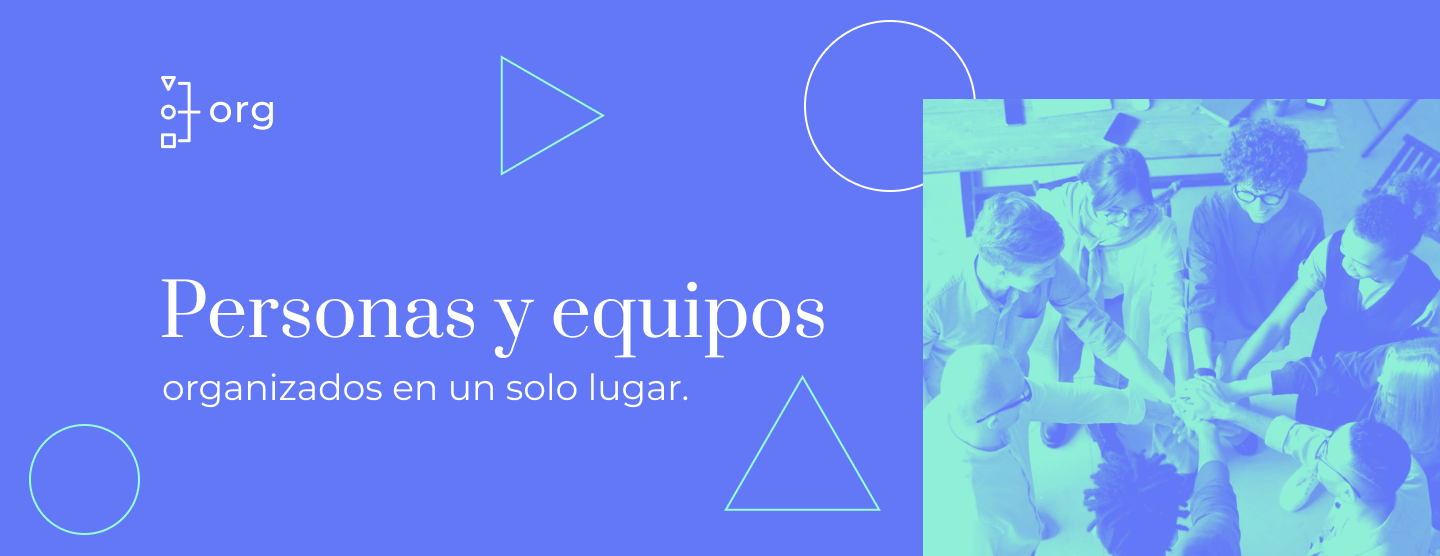
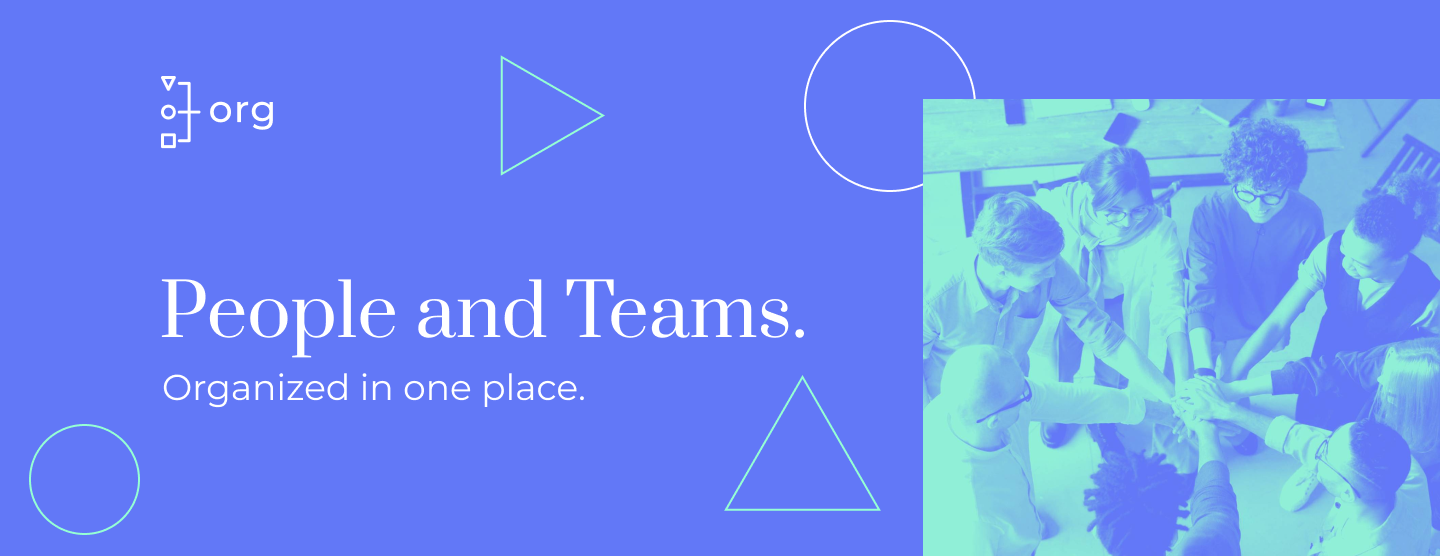
Translating to English
Translating the front end Text to english

Changed region(s): [[0.1562, 0.4892, 0.5938, 0.6421], [0.0938, 0.6727, 0.4688, 0.7338]]

diff --git a/src/App.js b/src/App.js
@@ -14,55 +14,55 @@ function App() {
 	const [colaboradores, actualizarColaboradores] = useState([
 		{
 			id: uuid(),
-			nombre: "Juan",
-			puesto: "Estudiante",
+			nombre: "JuanF Madrid",
+			puesto: "Full Stack Developer",
 			foto: "https://github.com/jfmadridc.png",
-			equipo: "Programación",
+			equipo: "Programing",
 			fav: true,
 		},
 		{
 			id: uuid(),
-			nombre: "Juan",
+			nombre: "JuanF Madrid",
 			puesto: "voluptate adipisicing consequat magna incididunt do ad excepteur nisi aute eu minim do Lorem   ",
 			foto: "https://github.com/jfmadridc.png",
-			equipo: "Programación",
+			equipo: "Programing",
 			fav: false,
 		},
 		{
 			id: uuid(),
-			nombre: "Juan",
-			puesto: "Estudiante",
+			nombre: "JuanF Madrid",
+			puesto: "Full Stack Developer",
 			foto: "https://github.com/jfmadridc.png",
-			equipo: "Programación",
+			equipo: "Programing",
 			fav: false,
 		},
 		{
 			id: uuid(),
-			nombre: "Juan",
-			puesto: "Estudiante",
+			nombre: "JuanF Madrid",
+			puesto: "Full Stack Developer",
 			foto: "https://github.com/jfmadridc.png",
-			equipo: "Programación",
+			equipo: "Programing",
 			fav: false,
 		},
 		{
 			id: uuid(),
-			nombre: "Juan",
-			puesto: "Estudiante",
+			nombre: "JuanF Madrid",
+			puesto: "Full Stack Developer",
 			foto: "https://github.com/jfmadridc.png",
-			equipo: "Programación",
+			equipo: "Programing",
 			fav: false,
 		},
 		{
 			id: uuid(),
 			nombre: "Christian",
-			puesto: "Dueño",
+			puesto: "Owner",
 			foto: "https://github.com/christianpva.png",
 			equipo: "Data Science",
 		},
 		{
 			id: uuid(),
 			nombre: "Christian",
-			puesto: "Dueño",
+			puesto: "Owner",
 			foto: "https://github.com/christianpva.png",
 			equipo: "Data Science",
 			fav: false,
@@ -70,7 +70,7 @@ function App() {
 		{
 			id: uuid(),
 			nombre: "Christian",
-			puesto: "Dueño",
+			puesto: "Owner",
 			foto: "https://github.com/christianpva.png",
 			equipo: "Devops",
 			fav: false,
@@ -78,40 +78,40 @@ function App() {
 		{
 			id: uuid(),
 			nombre: "Christian",
-			puesto: "Dueño",
+			puesto: "Owner",
 			foto: "https://github.com/christianpva.png",
-			equipo: "UX y Diseño",
+			equipo: "UX y Design",
 			fav: false,
 		},
 		{
 			id: uuid(),
 			nombre: "Christian",
-			puesto: "Dueño",
+			puesto: "Owner",
 			foto: "https://github.com/christianpva.png",
-			equipo: "Móvil",
+			equipo: "Mobile",
 			fav: false,
 		},
 		{
 			id: uuid(),
 			nombre: "Christian",
-			puesto: "Dueño",
+			puesto: "Owner",
 			foto: "https://github.com/christianpva.png",
-			equipo: "Innovacion y Gestión",
+			equipo: "Innovation and Management",
 			fav: false,
 		},
 		{
 			id: uuid(),
 			nombre: "Christian ea laborum ex deserunt minim eu consectetur irure",
-			puesto: "Dueño  ",
+			puesto: "Owner  ",
 			foto: "https://github.com/christianpva.png",
-			equipo: "Programación",
+			equipo: "Programing",
 			fav: false,
 		},
 
 		{
 			id: uuid(),
 			nombre: "Tatiana",
-			puesto: "Profesora",
+			puesto: "Teacher",
 			foto: "https://media.licdn.com/dms/image/D4D03AQG2FWMkos_0oA/profile-displayphoto-shrink_200_200/0/1691671216460?e=1700697600&v=beta&t=9uFXPOpL9RrtwZKQjIkO_Lw7j7aTuumwcGccPKO1OLM",
 			equipo: "Front End",
 			fav: false,
@@ -119,7 +119,7 @@ function App() {
 		{
 			id: uuid(),
 			nombre: "Tatiana",
-			puesto: "Profesora",
+			puesto: "Teacher",
 			foto: "https://media.licdn.com/dms/image/D4D03AQG2FWMkos_0oA/profile-displayphoto-shrink_200_200/0/1691671216460?e=1700697600&v=beta&t=9uFXPOpL9RrtwZKQjIkO_Lw7j7aTuumwcGccPKO1OLM",
 			equipo: "Front End",
 			fav: false,
@@ -128,7 +128,7 @@ function App() {
 		{
 			id: uuid(),
 			nombre: "Tatiana",
-			puesto: "Profesora",
+			puesto: "Teacher",
 			foto: "https://media.licdn.com/dms/image/D4D03AQG2FWMkos_0oA/profile-displayphoto-shrink_200_200/0/1691671216460?e=1700697600&v=beta&t=9uFXPOpL9RrtwZKQjIkO_Lw7j7aTuumwcGccPKO1OLM",
 			equipo: "Front End",
 			fav: false,
@@ -137,7 +137,7 @@ function App() {
 	const [equipos, actulizarEquipos] = useState([
 		{
 			id: uuid(),
-			titulo: "Programación",
+			titulo: "Programing",
 			colorFondo: "#D9F7E9",
 			colorDestaques: "#57C278",
 		},
@@ -161,19 +161,19 @@ function App() {
 		},
 		{
 			id: uuid(),
-			titulo: "UX y Diseño",
+			titulo: "UX y Design",
 			colorFondo: "#F6D7ED",
 			colorDestaques: "#DB6EBF",
 		},
 		{
 			id: uuid(),
-			titulo: "Móvil",
+			titulo: "Mobile",
 			colorFondo: "#FFECBA",
 			colorDestaques: "#FFBA05",
 		},
 		{
 			id: uuid(),
-			titulo: "Innovacion y Gestión",
+			titulo: "Innovation and Management",
 			colorFondo: "#FFDFC4",
 			colorDestaques: "#FF8A29",
 		},

diff --git a/src/componentes/Formulario/Formulario.js b/src/componentes/Formulario/Formulario.js
@@ -43,24 +43,24 @@ const Formulario = (props) => {
 	return (
 		<section className="formulario">
 			<form onSubmit={manejarEnvioCola} className="form-cola">
-				<h2>Crear el colaborador.</h2>
+				<h2>Create Member</h2>
 				<Campo
-					titulo="Nombre"
-					placeholder="Ingrese el nombre"
+					titulo="Name"
+					placeholder="Enter the name"
 					isRequired={true}
 					valor={nombre}
 					setValor={actualizarNombre}
 				/>
 				<Campo
-					titulo="Puesto"
-					placeholder="Ingrese el puesto"
+					titulo="Position"
+					placeholder="Enter the position"
 					isRequired
 					valor={puesto}
 					setValor={actualizarPuesto}
 				/>
 				<Campo
-					titulo="Foto"
-					placeholder="Url foto cuadrada"
+					titulo="Picture"
+					placeholder="Url of square pic"
 					isRequired
 					valor={foto}
 					setValor={actualizarFoto}
@@ -68,14 +68,14 @@ const Formulario = (props) => {
 
 				<ListaOpciones valor={equipo} setValor={actualizarEquipo} equipos={props.equipos} />
 
-				<Boton>Crear Colaborador</Boton>
+				<Boton>Add Member</Boton>
 			</form>
 
 			<form onSubmit={manejarEnvioEquipo} className="form-equipo">
-				<h2>Crear equipo.</h2>
+				<h2>Create Team</h2>
 				<Campo
-					titulo="Titulo"
-					placeholder="Ingrese el titulo"
+					titulo="Team Name"
+					placeholder="Enter the team name"
 					isRequired={true}
 					valor={titulo}
 					setValor={actualizarTitulo}
@@ -88,7 +88,7 @@ const Formulario = (props) => {
 					setValor={actualizarColor}
 					tipo="color"
 				/>
-				<Boton>Crear Equipo</Boton>
+				<Boton>Add Team</Boton>
 			</form>
 		</section>
 	);

diff --git a/public/index.html b/public/index.html
@@ -1,12 +1,12 @@
 <!DOCTYPE html>
-<html lang="es">
+<html lang="en">
 
 <head>
   <meta charset="utf-8" />
   <link rel="icon" href="%PUBLIC_URL%/org.png" />
   <meta name="viewport" content="width=device-width, initial-scale=1" />
   <meta name="theme-color" content="#000000" />
-  <meta name="description" content="Org Chart in a Single Place" />
+  <meta name="description" content="Org Charts in a single place" />
   <link rel="apple-touch-icon" href="%PUBLIC_URL%/logo192.png" />
   <!--
       manifest.json provides metadata used when your web app is installed on a
@@ -24,8 +24,9 @@
     -->
   <title>JFM/Org</title>
   <link rel="preconnect" href="https://fonts.googleapis.com">
-<link rel="preconnect" href="https://fonts.gstatic.com" crossorigin>
-<link href="https://fonts.googleapis.com/css2?family=Montserrat:wght@400;600;700&family=Prata&display=swap" rel="stylesheet">
+  <link rel="preconnect" href="https://fonts.gstatic.com" crossorigin>
+  <link href="https://fonts.googleapis.com/css2?family=Montserrat:wght@400;600;700&family=Prata&display=swap"
+    rel="stylesheet">
 </head>
 
 <body>

diff --git a/src/componentes/Colaborador/Colaborador.js b/src/componentes/Colaborador/Colaborador.js
@@ -12,13 +12,22 @@ const Colaborador = (props) => {
 				src="/img/Delete.png"
 				onClick={() => eliminarColaborador(id)}
 				alt="boton eliminar colaborador"
-				title="Eliminar Colaborador"
+				title="Delete Member"
 			/>
 
 			{fav ? (
-				<AiFillHeart className="corazon-lleno" color="red" onClick={() => like(id)} />
+				<AiFillHeart
+					className="corazon-lleno"
+					title="Unlike Member"
+					color="red"
+					onClick={() => like(id)}
+				/>
 			) : (
-				<AiOutlineHeart className="corazon-vacio" onClick={() => like(id)} />
+				<AiOutlineHeart
+					className="corazon-vacio"
+					title="Like Member"
+					onClick={() => like(id)}
+				/>
 			)}
 
 			<div className="encabezado" style={{ backgroundColor: colorEncabezado }}></div>

diff --git a/src/componentes/MiOrg/MiOrg.js b/src/componentes/MiOrg/MiOrg.js
@@ -7,14 +7,14 @@ const MiOrg = (props) => {
 				<img
 					src="/img/Delete.png"
 					alt="boton eliminar organizacion"
-					title="Eliminar Organizacion"
+					title="Delete Organization"
 					onClick={props.eliminarTodo}
 				/>
-				<h3 className="title">Mi Organización</h3>
+				<h3 className="title">My Organization</h3>
 				<img
 					src="/img/add.png"
 					alt="boton agregar"
-					title="Agregar Colaborador"
+					title="Show Forms"
 					onClick={props.switchMostrar}
 				/>
 			</section>

diff --git a/src/componentes/ListaOpciones/ListaOpciones.js b/src/componentes/ListaOpciones/ListaOpciones.js
@@ -11,10 +11,10 @@ const ListaOpciones = (props) => {
 
 	return (
 		<div className="lista-opciones">
-			<label>Equipo</label>
+			<label>Team</label>
 			<select value={props.valor} onChange={manejarCambio} required>
 				<option value="" disabled defaultValue="" hidden>
-					Seleccionar Equipo
+					Select the team...
 				</option>
 				{props.equipos.map((equipo, index) => (
 					<option key={index} value={equipo}>

diff --git a/src/componentes/Equipo/Equipo.js b/src/componentes/Equipo/Equipo.js
@@ -28,7 +28,7 @@ const Equipo = (props) => {
 							className="input-destaques"
 							type="color"
 							value={colorDestaques}
-							title="Cambiar Color"
+							title="Change Color"
 							onChange={(evento) => {
 								actualizarColorDestaque(evento.target.value, id);
 							}}

diff --git a/src/componentes/MiOrg/MiOrg.css b/src/componentes/MiOrg/MiOrg.css
@@ -26,10 +26,6 @@
 	cursor: pointer;
 }
 
-/* .orgSection img:hover {
-	content: attr(title);
-} */
-
 @media screen and (max-width: 768px) {
 	.orgSection {
 		width: 95%;
